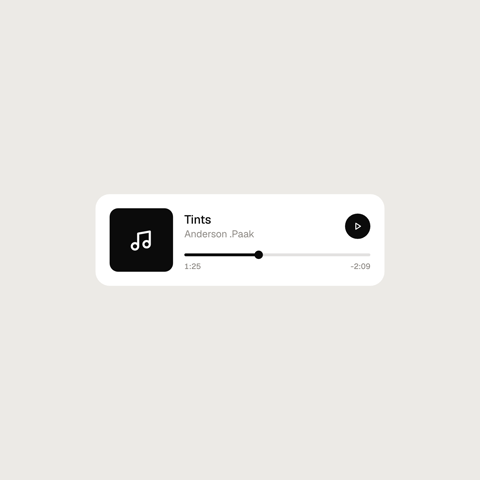
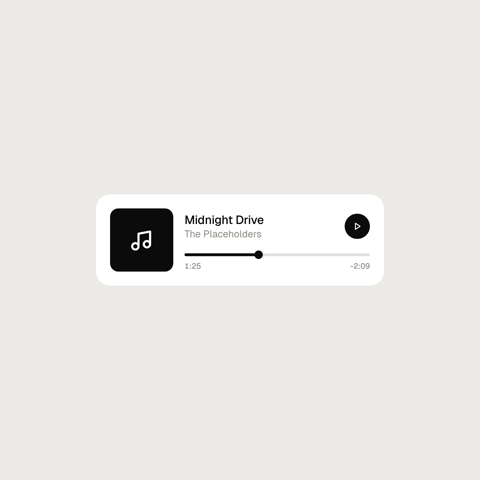
Task 6 fixes: command springs to a replaced query and keeps its caret; neutral player names; carried hover test; shared test helpers

diff --git a/skills/motion-video/components/chrome/command.js b/skills/motion-video/components/chrome/command.js
@@ -1,15 +1,15 @@
 // command.js -- a command palette: a search field that types a query and a list that filters as it types.
-import { el, frame, icon, prog, fade, applyFade, pressesOn, loopPeriod } from '../core/helpers.js';
+import { el, frame, icon, fade, applyFade, pressesOn, loopPeriod } from '../core/helpers.js';
 
 export const meta = {
   name: 'command', group: 'chrome',
   useWhen: 'An app is driven from the keyboard: jump to a page, run an action, find a setting.',
-  motion: "The query types in one character every perChar beats from typeAt (beats after the row starts; -1 shows it at once), with a key sound each, like input. The rows filter live (case-insensitive): rows that stop matching collapse and the rest slide up; rows that match again reopen, and when nothing matches a muted 'No results' line fades in. The selected row (an index among the visible rows) has a soft accent background that stays on that visible slot as the list filters; a press on `row:<i>` selects the i-th visible row. A following command row continues from the typed query (a query that extends it types on) and the selected row (write it as its `selected`). At most 5 items show.",
+  motion: "The query types in one character every perChar beats from typeAt (beats after the row starts; -1 shows it at once), with a key sound each, like input. The rows filter live (case-insensitive): rows that stop matching collapse and the rest slide up; rows that match again reopen, and when nothing matches a muted 'No results' line fades in. The selected row (an index among the visible rows) has a soft accent background that stays on that visible slot as the list filters; a press on `row:<i>` selects the i-th visible row. A following command row continues from the typed query (a query that extends it types on; any other query replaces it on arrival, the rows springing to the new filter) and the selected row (write it as its `selected`); with the same query a blinking caret keeps blinking. At most 5 items show. The palette keeps its full height while filtering; to shrink it, follow with a command row that sets `h` (96 + visible rows * 80 + 24).",
   props: { items: ['string[]', ['Export report', 'Export CSV', 'Invite teammate', 'New goal', 'Settings']], query: ['string', ''], typeAt: ['number', -1], perChar: ['number', 0.25], selected: ['number', 0] },
   hotspots: ['field', 'row:<i>'],
   hotspotExample: { 'row:<i>': 'row:0' },
   sounds: ['key'],
-  example: "{ at: 0, use: 'command', query: 'exp', typeAt: 0.25 }",
+  example: "{ at: 0, use: 'command', query: 'o', typeAt: 0.25 }",
   edgeCases: [{ query: '' }, { query: 'zzz', typeAt: -1 }, { items: ['Settings', 'Sign out'], query: 's', selected: 1 }, { items: ['A very long command name that goes on and on past the edge', 'Short'], query: '' }],
 };
 
@@ -59,29 +59,43 @@ function times(p, ctx) {
   return [...Array(keep).fill(-Infinity), ...typed, ...Array(p.query.length - keep - typed.length).fill(-Infinity)];
 }
 
-// Everything that changes the list, in time order: the query at the start, each character, each press on a row.
+// A continuation whose query does not extend the previous one replaces it on arrival.
+const replaces = (p, ctx) => ctx.continues && !p.query.startsWith(ctx.prev.query);
+
+// Everything that changes the list, in time order: the query at the start (the previous row's when this row
+// replaces it, so the rows spring to the new filter at t0 instead of snapping), each character, each press on a row.
 function events(p, ctx) {
-  const tm = times(p, ctx), sel0 = ctx.continues ? ctx.prev.selected : p.selected;
-  const out = [{ t: -Infinity, n: tm.filter((x) => x === -Infinity).length, sel: sel0 }];
+  const tm = times(p, ctx), sel0 = ctx.continues ? ctx.prev.selected : p.selected, n0 = tm.filter((x) => x === -Infinity).length;
+  const out = [replaces(p, ctx) ? { t: -Infinity, n: 0, q: ctx.prev.query, sel: sel0 } : { t: -Infinity, n: n0, sel: sel0 }];
   const later = [...tm.filter((x) => x > -Infinity).map((x) => ({ t: x, kind: 'key' })),
     ...pressesOn(ctx, 'row').filter((x) => x.kind !== 'up').map((x) => ({ t: x.t, kind: 'sel', sel: Number(x.hotspot.slice(4)) }))];
+  if (replaces(p, ctx)) later.push({ t: ctx.t0, kind: 'query' });
   if (ctx.continues && sel0 !== p.selected) later.push({ t: ctx.t0, kind: 'sel', sel: p.selected });
-  for (const e of later.sort((a, b) => a.t - b.t)) {
+  // At t0 the new query lands before any selection change on the same instant.
+  const rank = { query: 0, sel: 1, key: 2 };
+  for (const e of later.sort((a, b) => a.t - b.t || rank[a.kind] - rank[b.kind])) {
     const last = out.at(-1);
-    out.push({ t: e.t, n: last.n + (e.kind === 'key' ? 1 : 0), sel: e.kind === 'sel' ? e.sel : last.sel });
+    out.push({ t: e.t, n: e.kind === 'query' ? n0 : last.n + (e.kind === 'key' ? 1 : 0), q: e.kind === 'query' ? undefined : last.q,
+      sel: e.kind === 'sel' ? e.sel : last.sel });
   }
   return out;
 }
 
 // For an event: which items are visible, and which item is selected (the sel-th visible one).
 function state(p, e) {
-  const q = p.query.slice(0, e.n), vis = shown(p).map((it) => matches(it, q));
+  const q = e.q ?? p.query.slice(0, e.n), vis = shown(p).map((it) => matches(it, q));
   const order = vis.flatMap((v, i) => (v ? [i] : []));
   return { vis, selItem: order[e.sel] ?? -1 };
 }
 
-// The row as it stands after its presses: a following command row continues from here.
-export const endState = (p, ctx) => ({ ...p, selected: events(p, ctx).at(-1).sel });
+// Whether this row shows a caret that is still blinking when it ends: it typed something, or it continued a
+// row whose caret was blinking and kept the same query.
+const typing = (p, ctx) => p.typeAt >= 0 && p.query.length > kept(p, ctx);
+const blinks = (p, ctx) => typing(p, ctx) || (ctx.continues && !!ctx.prev._caret && p.query === ctx.prev.query);
+
+// The row as it stands after its presses: a following command row continues from here (`_caret`: the caret is
+// blinking at the end, so a continuation with the same query keeps it).
+export const endState = (p, ctx) => ({ ...p, selected: events(p, ctx).at(-1).sel, _caret: blinks(p, ctx) });
 
 const snap = (k) => (k > 0.999 ? 1 : k < 0.001 ? 0 : k);
 const soft = (k) => `color-mix(in srgb, var(--accent) ${(14 * k).toFixed(2)}%, transparent)`;
@@ -92,9 +106,10 @@ export function render(root, p, ctx, t) {
   f.querySelector('.cm-text').textContent = p.query.slice(0, n);
   f.querySelector('.cm-ph').style.opacity = n > 0 ? '0' : '1';
   // Caret as in input: solid while typing, then a ~1 Hz blink with a loop-fitted period and the loop's phase.
-  const typing = p.typeAt >= 0 && p.query.length > kept(p, ctx);
+  // A continuation with the same query keeps a blinking caret blinking (same loop phase, so no jump at t0).
   const blink = loopPeriod(ctx, 1.0), phase = (((t / blink) % 1) + 1) % 1;
-  f.querySelector('.cm-caret').style.opacity = typing && t >= first && (t < end || phase < 0.5) ? '1' : '0';
+  const on = typing(p, ctx) ? t >= first && (t < end || phase < 0.5) : blinks(p, ctx) && phase < 0.5;
+  f.querySelector('.cm-caret').style.opacity = on ? '1' : '0';
   const ev = events(p, ctx), st = ev.map((e) => state(p, e));
   const omega = Springs.fromSettle(0.3 * bs, 1), hi = Springs.fromSettle(0.25 * bs, 1);
   const trackOf = (get, w) => snap(Math.max(0, Math.min(1, Springs.track(t, { from: get(st[0]), changes: ev.slice(1).map((e, j) => ({ t: e.t, to: get(st[j + 1]) })), omega: w, zeta: 1 }).value)));

diff --git a/skills/motion-video/components/chrome/player.js b/skills/motion-video/components/chrome/player.js
@@ -4,11 +4,11 @@ import { el, frame, icon, prog, fade, applyFade, pressesOn, pressDepth } from '.
 export const meta = {
   name: 'player', group: 'chrome',
   useWhen: 'Media is playing or about to: a song, a podcast, a voice note.',
-  motion: "A press on `play` swaps the play and pause icons (crossfade with a small scale) and starts or stops playback; while playing the position runs on with the clock (duration in seconds). Between a press 'down' on `thumb` and the next 'up' the thumb follows the cursor, and playback resumes from the release. A following player row carries on from where playback got to; if it writes a different `position` from the row before, it seeks there on arrival (the thumb glides). It plays or pauses on arrival if `playing` differs and crossfades a changed title or artist.",
-  props: { title: ['string', 'Tints'], artist: ['string', 'Artist'], playing: ['boolean', false], position: ['number', 0.25], duration: ['number', 214] },
+  motion: "A press on `play` swaps the play and pause icons (crossfade with a small scale) and starts or stops playback; while playing the position runs on with the clock (duration in seconds). Between a press 'down' on `thumb` and the next 'up' the thumb follows the cursor, and playback resumes from the release. A following player row carries on from where playback got to; if it writes a different `position` from the row before, it seeks there on arrival (the thumb glides). It plays or pauses on arrival if `playing` differs and crossfades a changed title or artist. In a looping piece, start and end on a paused player; a playing one moves with the clock and cannot match at the seam.",
+  props: { title: ['string', 'Midnight Drive'], artist: ['string', 'The Placeholders'], playing: ['boolean', false], position: ['number', 0.25], duration: ['number', 214] },
   hotspots: ['play', 'thumb'],
   sounds: [],
-  example: "{ at: 0, use: 'player', title: 'Tints', artist: 'Anderson .Paak', position: 0.4 }",
+  example: "{ at: 0, use: 'player', title: 'Midnight Drive', artist: 'The Placeholders', position: 0.4 }",
   edgeCases: [{ playing: true, position: 0 }, { title: 'A very long track title that will not fit on the card', artist: 'Somebody with a long name', position: 1 }, { position: 0.5, duration: 3725 }],
 };
 
@@ -73,7 +73,7 @@ function drags(ctx) {
 }
 
 // A continuation seeks when its written position differs from the previous row's written one; else it carries on.
-const seeks = (p, ctx) => ctx.continues && ctx.prev.written !== p.position;
+const seeks = (p, ctx) => ctx.continues && ctx.prev._written !== p.position;
 const startPos = (p, ctx) => clamp01(ctx.continues && !seeks(p, ctx) ? ctx.prev.position : p.position);
 
 // Position 0..1 at t: it runs on at 1/duration a second while playing (from 0 for row 0, else the row's start),
@@ -101,8 +101,8 @@ function position(p, ctx, t) {
 }
 
 // The row as it stands when the next row starts: a following player row carries on from here.
-// `written` keeps the row's own position so the next row can tell a seek from carrying on.
-export const endState = (p, ctx) => ({ ...p, playing: playingAt(plays(p, ctx), Infinity), position: position(p, ctx, Math.min(ctx.t1, 1e6)), written: p.position });
+// `_written` keeps the row's own position so the next row can tell a seek from carrying on.
+export const endState = (p, ctx) => ({ ...p, playing: playingAt(plays(p, ctx), Infinity), position: position(p, ctx, Math.min(ctx.t1, 1e6)), _written: p.position });
 
 const mmss = (s) => `${Math.floor(s / 60)}:${String(Math.floor(s % 60)).padStart(2, '0')}`;
 
@@ -138,6 +138,8 @@ export function render(root, p, ctx, t) {
 
 export function hotspot(name, p, geo, ctx) {
   if (name === 'play') return { x: W / 2 - PAD - BTN / 2, y: 55 + BTN / 2 - H / 2 };
+  // The thumb is aimed where it sits when the row starts: hotspots have no time, so while playing it drifts
+  // slightly (about 2.5 px a second on a 214 s track) from the aimed point.
   if (name === 'thumb') {
     const pos = ctx?.continues ? startPos(p, ctx) : clamp01(p.position);
     return { x: COL + pos * TRACK - W / 2, y: TRACK_Y - H / 2 };

diff --git a/skills/motion-video/components/core/engine.js b/skills/motion-video/components/core/engine.js
@@ -10,7 +10,8 @@
 //   geometry(props, ctx) -> { w, h, r, fill, ink }; mount(el, props, ctx); render(el, props, ctx, t);
 //   hotspot(name, props, geo, ctx) -> { x, y } | null (offset from shape centre; ctx is the row's own ctx);
 //   optional sfx(props, ctx); optional endState(props, ctx) -> props (pure: the props as they stand
-//   once that row's presses have happened, e.g. a toggle flipped by a press).
+//   once that row's presses have happened, e.g. a toggle flipped by a press). It may add private keys prefixed
+//   `_` (e.g. player's `_written`) that only the next row of the same component reads from ctx.prev.
 //   ctx = { beatT, beat_sec, Springs, spring, theme, hex, stage, loop_sec, t0, t1, presses, targets, cursorAt, geo, row,
 //           prev, continues, settled }   settled: true for row 0, shown with its entrance long finished.
 //   targets: every cursor row aimed at one of this row's hotspots, as { t, target, press } (t in seconds,

diff --git a/skills/motion-video/components/CATALOG.md b/skills/motion-video/components/CATALOG.md
@@ -517,7 +517,7 @@ Any row can also carry `shake: true` (error shake on arrival) and `badge: <n>` (
 
 **Use when:** An app is driven from the keyboard: jump to a page, run an action, find a setting.
 
-**Motion:** The query types in one character every perChar beats from typeAt (beats after the row starts; -1 shows it at once), with a key sound each, like input. The rows filter live (case-insensitive): rows that stop matching collapse and the rest slide up; rows that match again reopen, and when nothing matches a muted 'No results' line fades in. The selected row (an index among the visible rows) has a soft accent background that stays on that visible slot as the list filters; a press on `row:<i>` selects the i-th visible row. A following command row continues from the typed query (a query that extends it types on) and the selected row (write it as its `selected`). At most 5 items show.
+**Motion:** The query types in one character every perChar beats from typeAt (beats after the row starts; -1 shows it at once), with a key sound each, like input. The rows filter live (case-insensitive): rows that stop matching collapse and the rest slide up; rows that match again reopen, and when nothing matches a muted 'No results' line fades in. The selected row (an index among the visible rows) has a soft accent background that stays on that visible slot as the list filters; a press on `row:<i>` selects the i-th visible row. A following command row continues from the typed query (a query that extends it types on; any other query replaces it on arrival, the rows springing to the new filter) and the selected row (write it as its `selected`); with the same query a blinking caret keeps blinking. At most 5 items show. The palette keeps its full height while filtering; to shrink it, follow with a command row that sets `h` (96 + visible rows * 80 + 24).
 
 | Prop | Type | Default |
 |---|---|---|
@@ -531,7 +531,7 @@ Any row can also carry `shake: true` (error shake on arrival) and `badge: <n>` (
 **Sounds:** key
 
 ```js
-{ at: 0, use: 'command', query: 'exp', typeAt: 0.25 }
+{ at: 0, use: 'command', query: 'o', typeAt: 0.25 }
 ```
 
 ### dock
@@ -581,12 +581,12 @@ Any row can also carry `shake: true` (error shake on arrival) and `badge: <n>` (
 
 **Use when:** Media is playing or about to: a song, a podcast, a voice note.
 
-**Motion:** A press on `play` swaps the play and pause icons (crossfade with a small scale) and starts or stops playback; while playing the position runs on with the clock (duration in seconds). Between a press 'down' on `thumb` and the next 'up' the thumb follows the cursor, and playback resumes from the release. A following player row carries on from where playback got to; if it writes a different `position` from the row before, it seeks there on arrival (the thumb glides). It plays or pauses on arrival if `playing` differs and crossfades a changed title or artist.
+**Motion:** A press on `play` swaps the play and pause icons (crossfade with a small scale) and starts or stops playback; while playing the position runs on with the clock (duration in seconds). Between a press 'down' on `thumb` and the next 'up' the thumb follows the cursor, and playback resumes from the release. A following player row carries on from where playback got to; if it writes a different `position` from the row before, it seeks there on arrival (the thumb glides). It plays or pauses on arrival if `playing` differs and crossfades a changed title or artist. In a looping piece, start and end on a paused player; a playing one moves with the clock and cannot match at the seam.
 
 | Prop | Type | Default |
 |---|---|---|
-| `title` | `string` | `"Tints"` |
-| `artist` | `string` | `"Artist"` |
+| `title` | `string` | `"Midnight Drive"` |
+| `artist` | `string` | `"The Placeholders"` |
 | `playing` | `boolean` | `false` |
 | `position` | `number` | `0.25` |
 | `duration` | `number` | `214` |
@@ -595,7 +595,7 @@ Any row can also carry `shake: true` (error shake on arrival) and `badge: <n>` (
 **Sounds:** none
 
 ```js
-{ at: 0, use: 'player', title: 'Tints', artist: 'Anderson .Paak', position: 0.4 }
+{ at: 0, use: 'player', title: 'Midnight Drive', artist: 'The Placeholders', position: 0.4 }
 ```
 
 ### sheet
